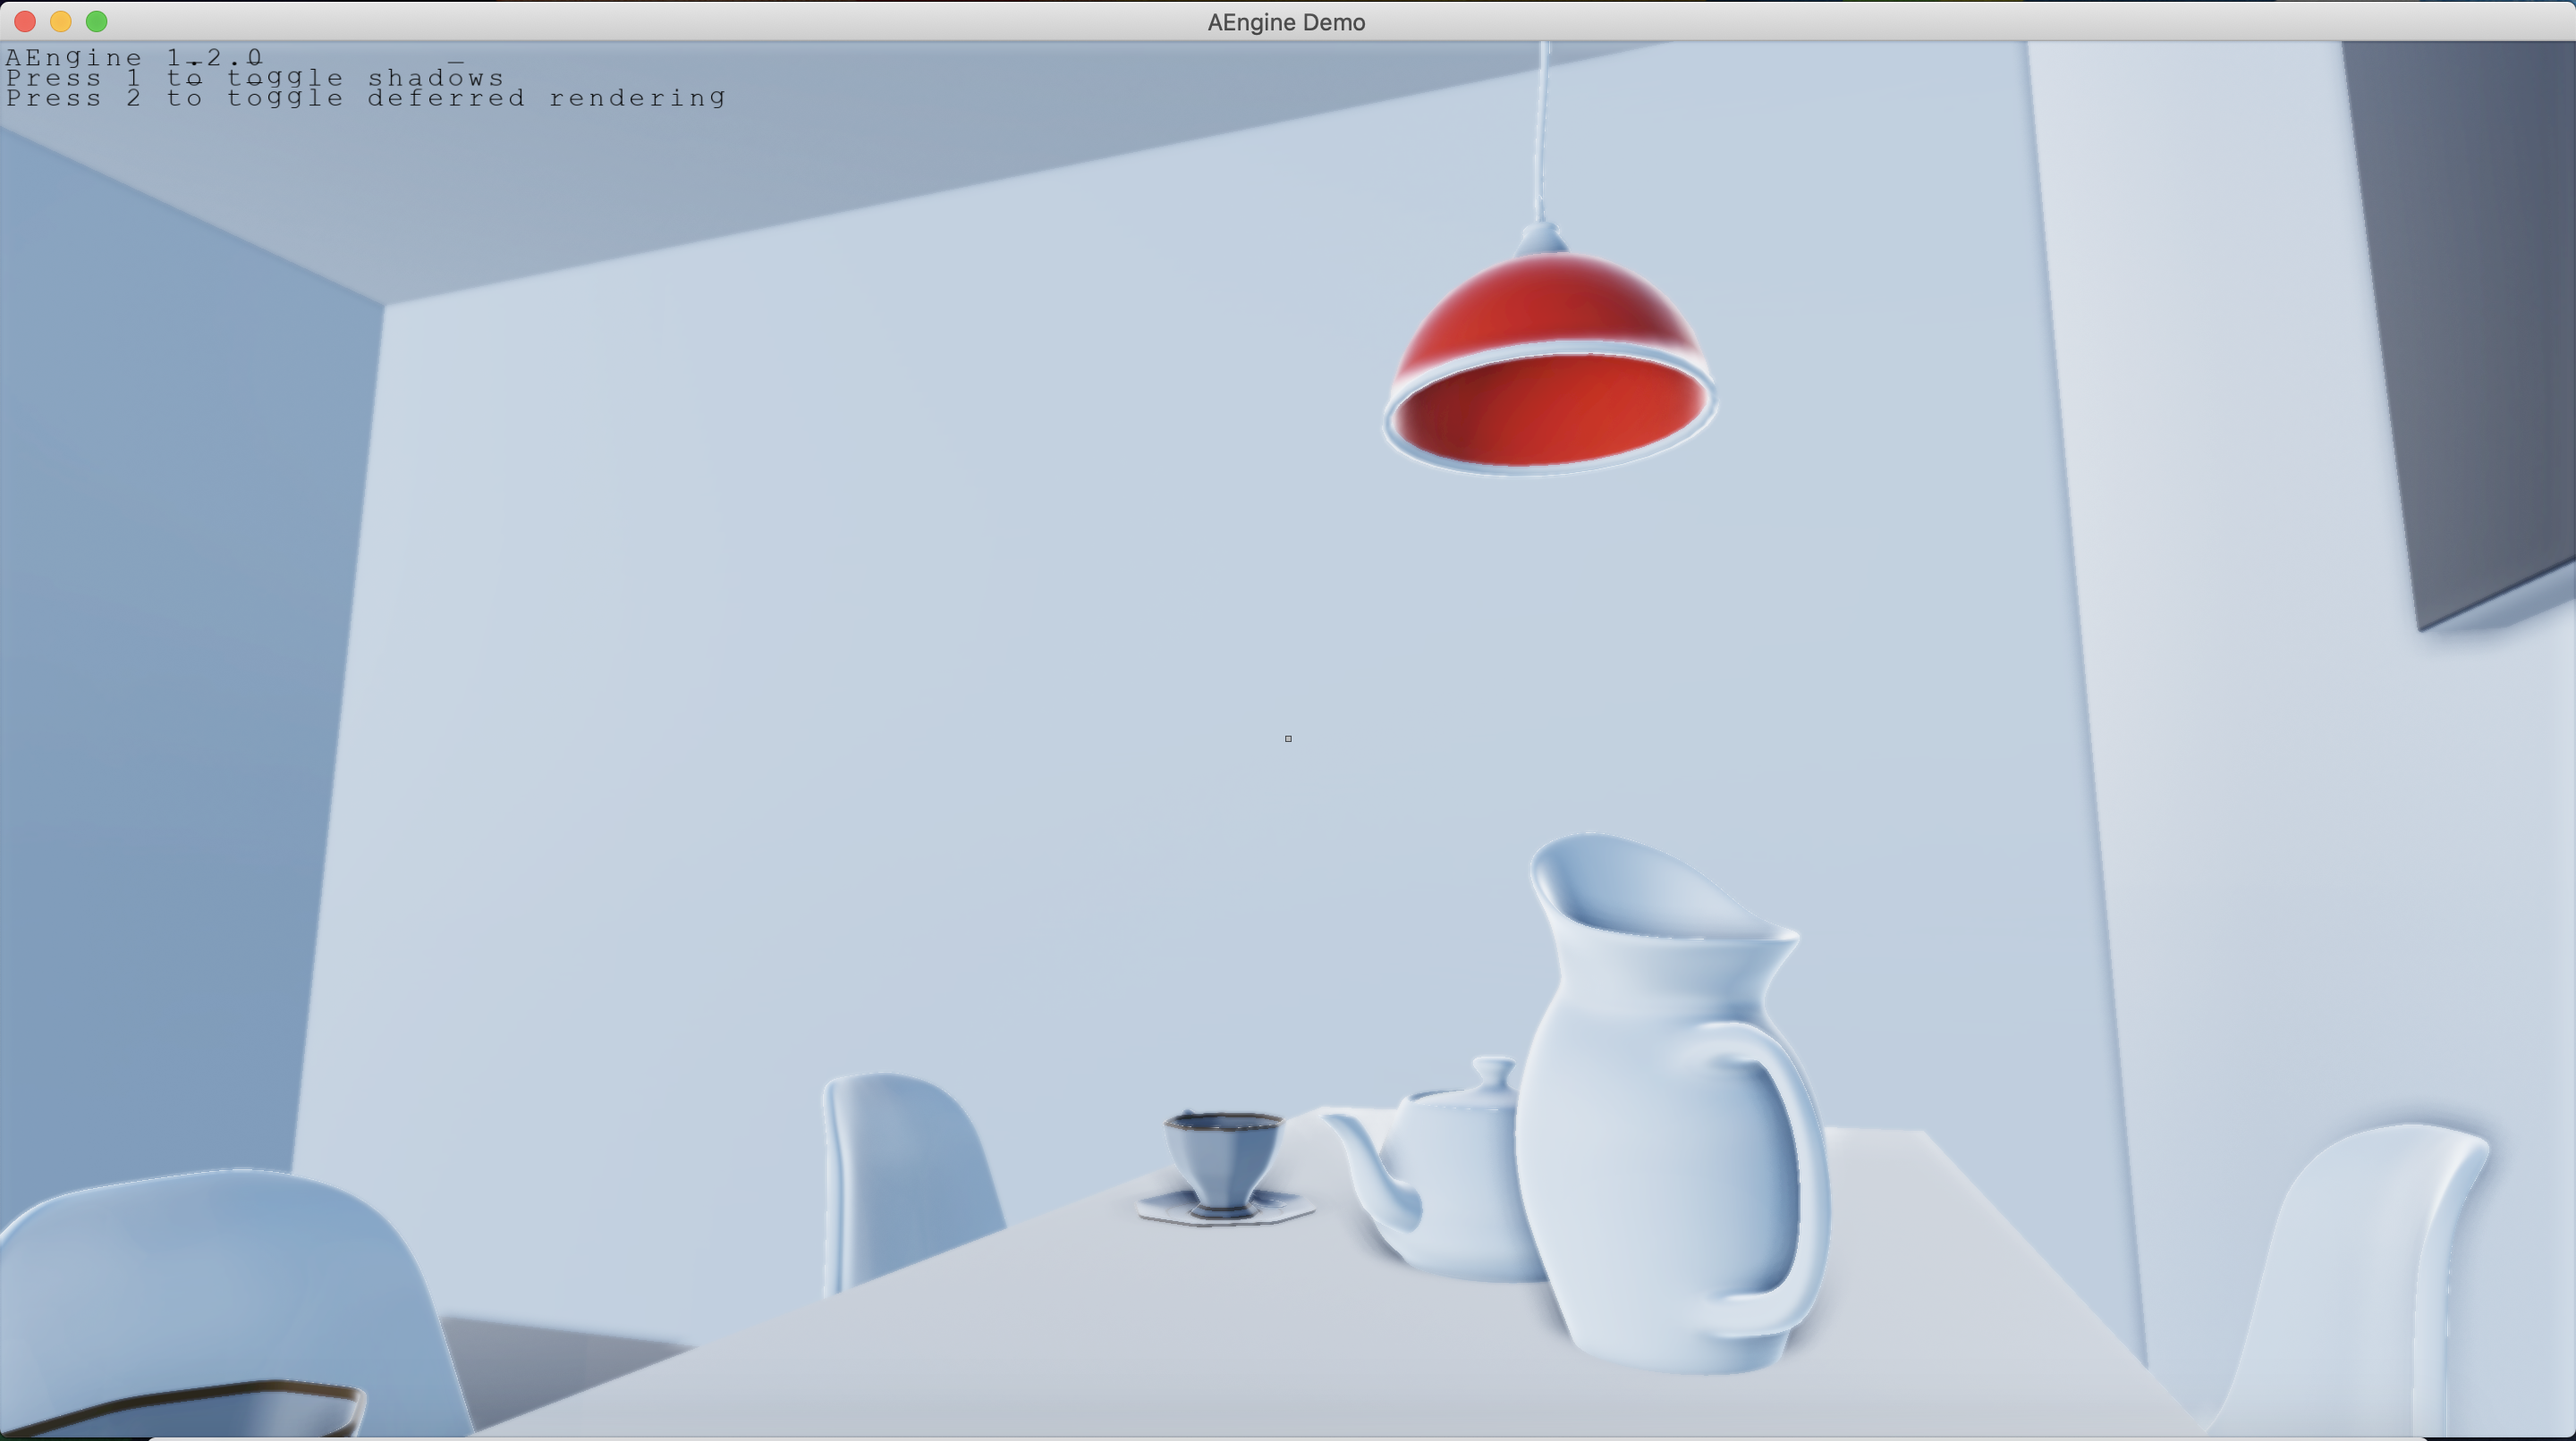
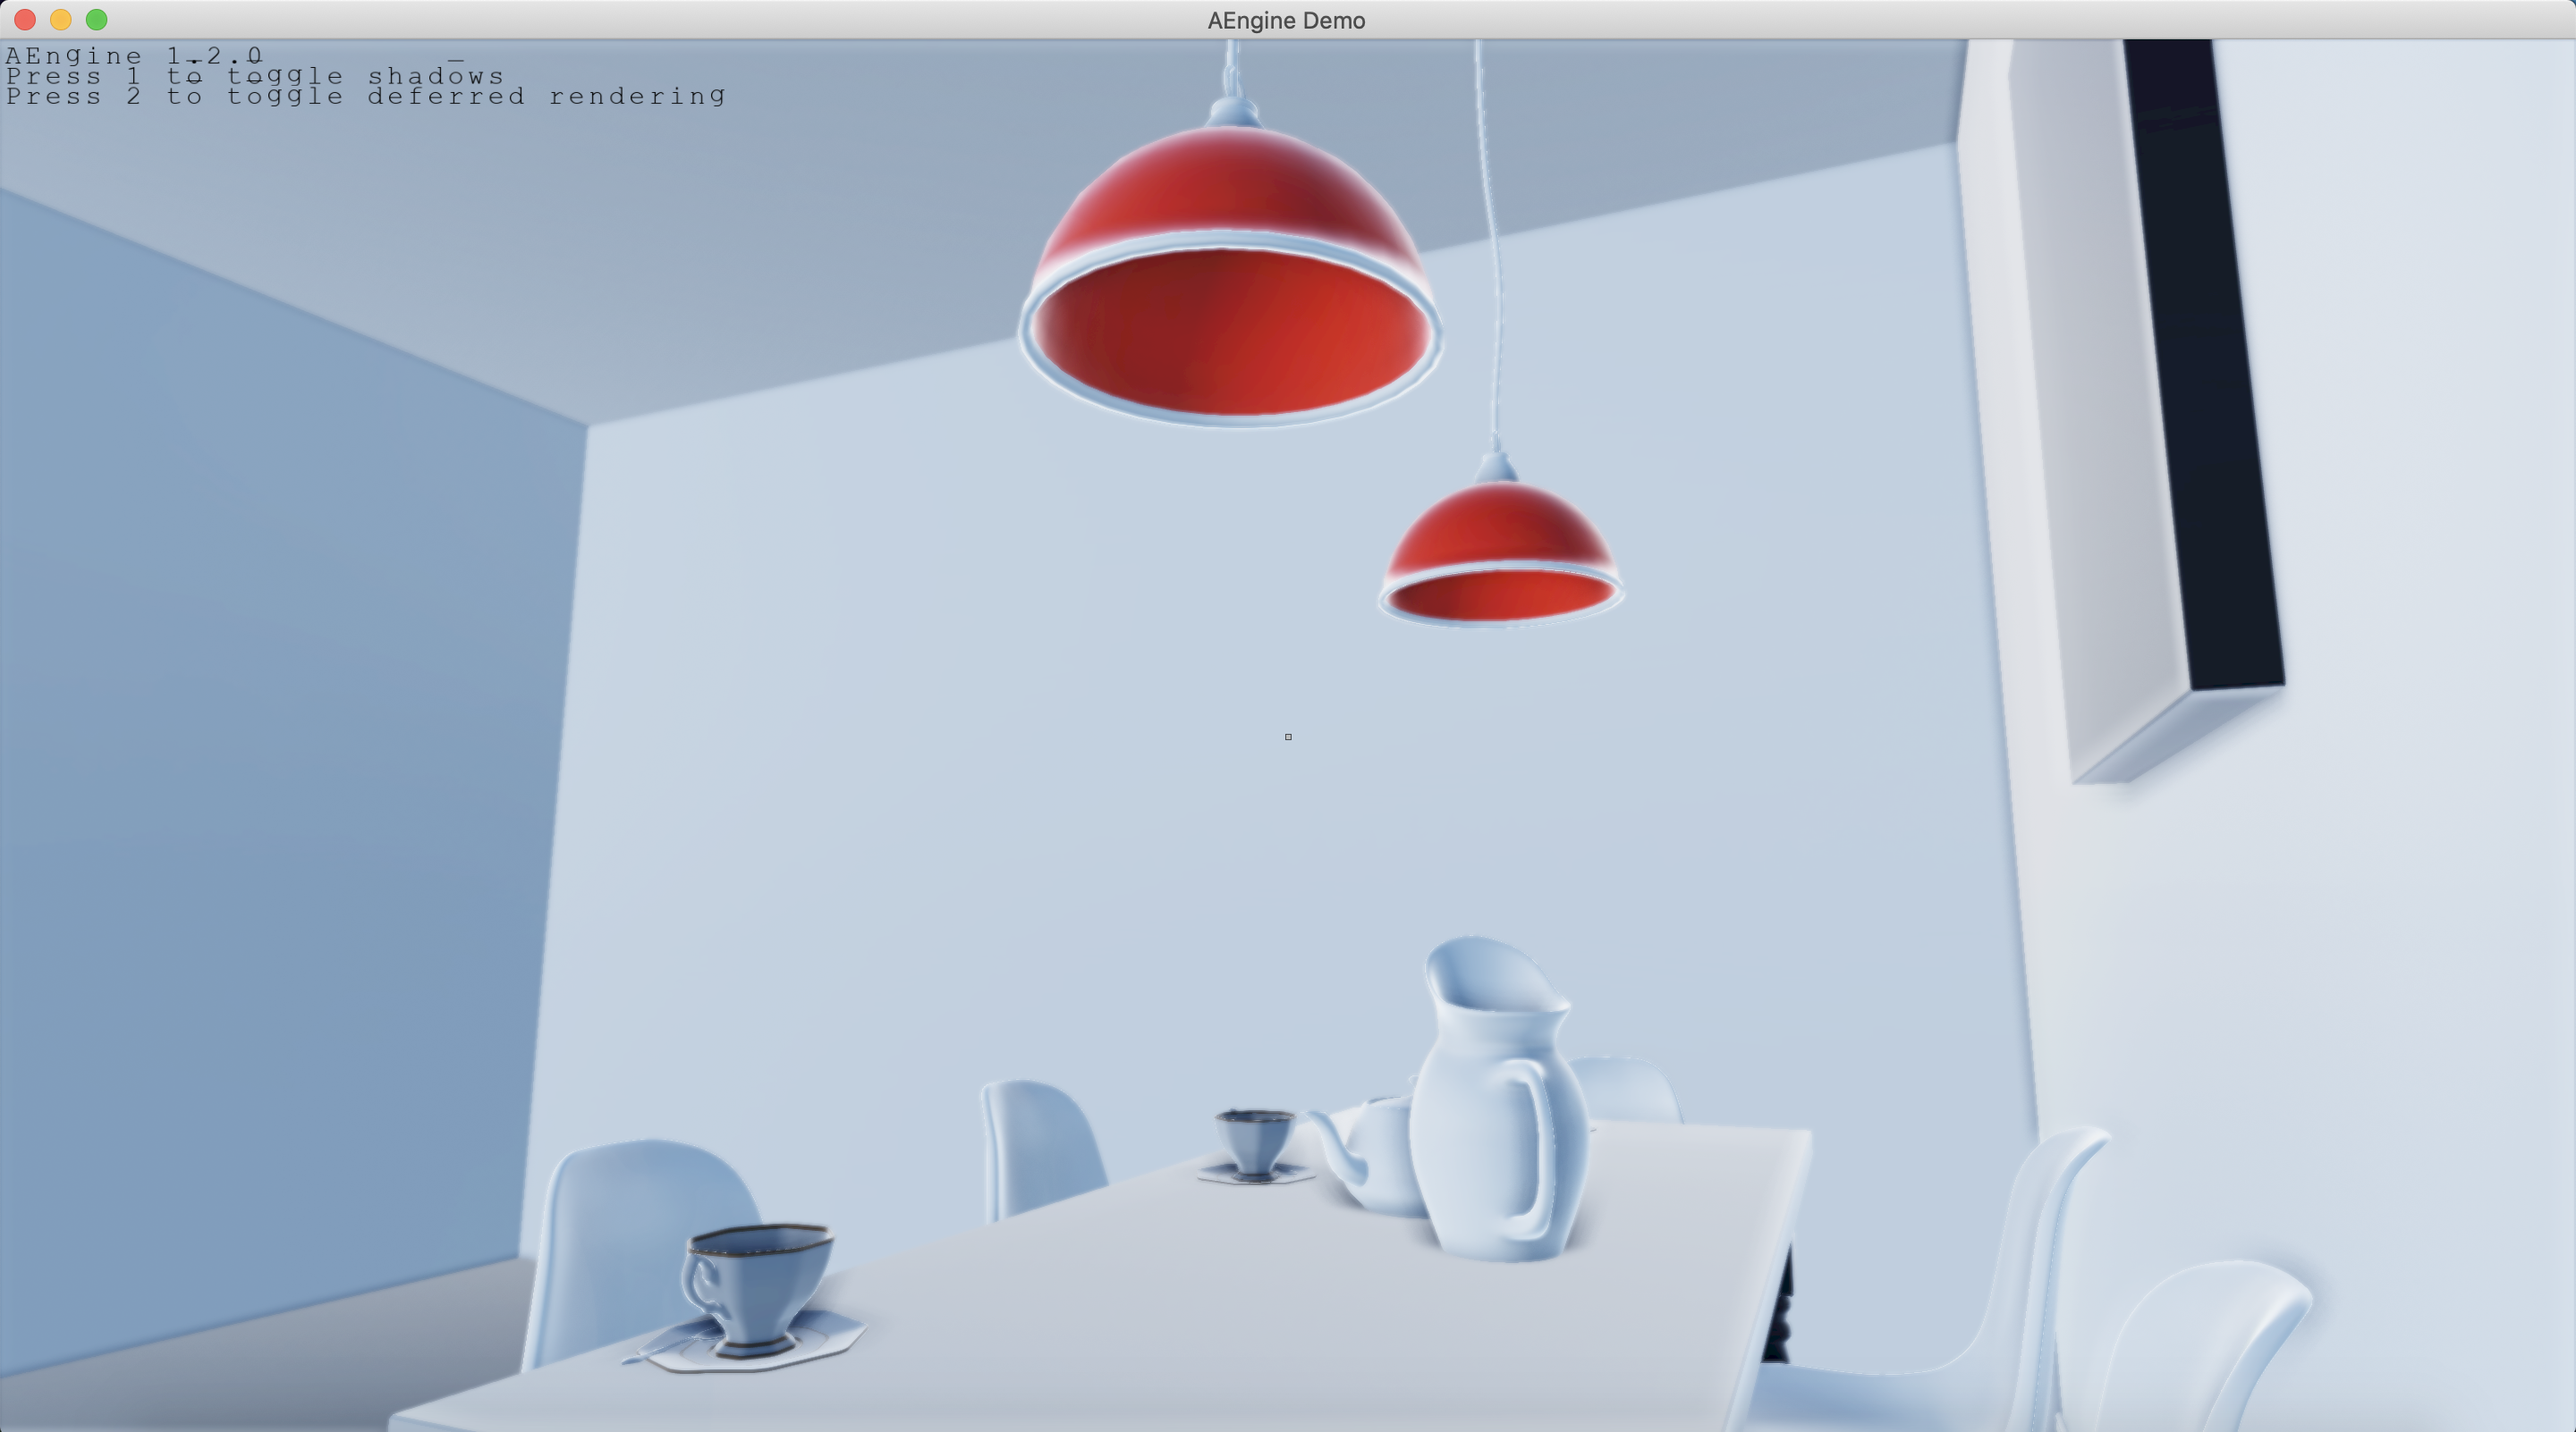
Add FXAA filter and update readme

diff --git a/ApexEngineV2/main.cpp b/ApexEngineV2/main.cpp
@@ -36,6 +36,7 @@
 #include "rendering/postprocess/filters/deferred_rendering_filter.h"
 #include "rendering/postprocess/filters/bloom_filter.h"
 #include "rendering/postprocess/filters/depth_of_field_filter.h"
+#include "rendering/postprocess/filters/fxaa_filter.h"
 
 /* Extra */
 #include "rendering/skydome/skydome.h"
@@ -248,7 +249,8 @@ public:
         m_renderer->GetPostProcessing()->AddFilter<SSAOFilter>("ssao", 20);
         m_renderer->GetPostProcessing()->AddFilter<BloomFilter>("bloom", 40);
         m_renderer->GetPostProcessing()->AddFilter<DepthOfFieldFilter>("depth of field", 50);
-        m_renderer->GetPostProcessing()->AddFilter<GammaCorrectionFilter>("gamma correction", 9999);
+        m_renderer->GetPostProcessing()->AddFilter<GammaCorrectionFilter>("gamma correction", 999);
+        m_renderer->GetPostProcessing()->AddFilter<FXAAFilter>("fxaa", 9999);
         m_renderer->SetDeferred(true);
 
         //env_cam = new PerspectiveCamera(45, 256, 256, 0.3f, 100.0f);
@@ -434,17 +436,17 @@ public:
         dragger->UpdateTransform();
 
 
-        /*auto durdle = AssetManager::GetInstance()->LoadFromFile<Entity>("res/models/durdle/durdle.obj");
-        durdle->SetName("durdle");
-        durdle->Move(Vector3(-7, -10, -6));
-        durdle->Scale(0.25);
-        for (size_t i = 0; i < durdle->NumChildren(); i++) {
-            durdle->GetChild(i)->GetMaterial().SetParameter("FlipUV", Vector2(0, 1));
+        auto superdan = AssetManager::GetInstance()->LoadFromFile<Entity>("res/models/superdan/superdan.obj");
+        superdan->SetName("superdan");
+        superdan->Move(Vector3(-7, 5, -6));
+        superdan->Scale(0.25);
+        for (size_t i = 0; i < superdan->NumChildren(); i++) {
+            superdan->GetChild(i)->GetMaterial().SetParameter("FlipUV", Vector2(0, 1));
         }
-        top->AddChild(durdle);
-        durdle->UpdateTransform();*/
+        top->AddChild(superdan);
+        superdan->UpdateTransform();
 
-        {
+        /*{
             auto sundaysbest = AssetManager::GetInstance()->LoadFromFile<Entity>("res/models/durdle/sundays_best.obj");
             sundaysbest->SetName("sundaysbest");
             sundaysbest->Move(Vector3(2, 4, 8));
@@ -473,7 +475,7 @@ public:
             particle_node->SetLocalScale(Vector3(1.5));
             particle_node->SetLocalTranslation(Vector3(-0.1, 1.9, -0.4));
             sundaysbest->AddChild(particle_node);
-        }
+        }*/
 
         // auto rb3 = std::make_shared<physics::RigidBody>(std::make_shared<physics::BoxPhysicsShape>(Vector3(0.25)), physics::PhysicsMaterial(0.01));
         // rb3->SetPosition(dragger->GetGlobalTransform().GetTranslation());
@@ -708,7 +710,7 @@ public:
             sponza->Scale(2.0f);
         }*/
 
-        {
+        /*{
             auto breakfast_room = AssetManager::GetInstance()->LoadFromFile<Entity>("res/models/breakfast_room/breakfast_room.obj");
            
 
@@ -719,7 +721,7 @@ public:
 
             //room->Rotate(Quaternion(Vector3::UnitX(), MathUtil::DegToRad(90.0f)));
             breakfast_room->Scale(5.0f);
-        }
+        }*/
 
         // { //
         //     auto obj = AssetManager::GetInstance()->LoadFromFile<Entity>("res/models/mitsuba.obj");
@@ -744,7 +746,7 @@ public:
 
         //top->AddControl(std::make_shared<SkydomeControl>(cam));
         top->AddControl(std::make_shared<SkyboxControl>(cam, cubemap));
-        // top->AddControl(std::make_shared<NoiseTerrainControl>(cam, 223));
+        top->AddControl(std::make_shared<NoiseTerrainControl>(cam, 223));
     }
 
     void Logic(double dt)

diff --git a/ApexEngineV2/rendering/shaders/post/fxaa.cpp b/ApexEngineV2/rendering/shaders/post/fxaa.cpp
@@ -1,0 +1,24 @@
+#include "fxaa.h"
+#include "../../../asset/asset_manager.h"
+#include "../../../asset/text_loader.h"
+#include "../../../util/shader_preprocessor.h"
+
+namespace apex {
+FXAAShader::FXAAShader(const ShaderProperties &properties)
+    : PostShader(properties)
+{
+    const std::string fs_path("res/shaders/filters/fxaa.frag");
+
+    AddSubShader(
+        Shader::SubShaderType::SUBSHADER_FRAGMENT,
+        AssetManager::GetInstance()->LoadFromFile<TextLoader::LoadedText>(fs_path)->GetText(),
+        properties,
+        fs_path
+    );
+}
+
+void FXAAShader::ApplyTransforms(const Transform &transform, Camera *camera)
+{
+    Shader::ApplyTransforms(transform, camera);
+}
+} // namespace apex

diff --git a/ApexEngineV2/rendering/postprocess/filters/fxaa_filter.h b/ApexEngineV2/rendering/postprocess/filters/fxaa_filter.h
@@ -1,0 +1,25 @@
+#ifndef FXAA_FILTER_H
+#define FXAA_FILTER_H
+
+#include <array>
+#include <memory>
+
+#include "../post_filter.h"
+#include "../../texture_2D.h"
+#include "../../../math/vector3.h"
+#include "../../../math/vector2.h"
+#include "../../../math/matrix4.h"
+
+namespace apex {
+
+class FXAAFilter : public PostFilter {
+public:
+    FXAAFilter();
+    virtual ~FXAAFilter() = default;
+
+    virtual void SetUniforms(Camera *cam) override;
+};
+
+} // namespace apex
+
+#endif

diff --git a/ApexEngineV2/rendering/postprocess/filters/fxaa_filter.cpp b/ApexEngineV2/rendering/postprocess/filters/fxaa_filter.cpp
@@ -1,0 +1,18 @@
+#include "./fxaa_filter.h"
+#include "../../../asset/asset_manager.h"
+#include "../../shader_manager.h"
+#include "../../shaders/post/fxaa.h"
+
+namespace apex {
+
+FXAAFilter::FXAAFilter()
+    : PostFilter(ShaderManager::GetInstance()->GetShader<FXAAShader>(ShaderProperties()))
+{
+}
+
+void FXAAFilter::SetUniforms(Camera *cam)
+{
+    m_shader->SetUniform("Resolution", Vector2(cam->GetWidth(), cam->GetHeight()));
+}
+
+} // namespace apex

diff --git a/ApexEngineV2/rendering/shaders/post/fxaa.h b/ApexEngineV2/rendering/shaders/post/fxaa.h
@@ -1,0 +1,18 @@
+#ifndef FXAA_H
+#define FXAA_H
+
+#include "../post_shader.h"
+
+namespace apex {
+
+class FXAAShader : public PostShader {
+public:
+    FXAAShader(const ShaderProperties &properties);
+    virtual ~FXAAShader() = default;
+
+    virtual void ApplyTransforms(const Transform &transform, Camera *camera);
+};
+
+} // namespace apex
+
+#endif

diff --git a/README.md b/README.md
@@ -1,3 +1,5 @@
 # Apex Engine
 
 ![Apex engine screenshot](/screenshot1.png)
+![Apex engine screenshot](/screenshot2.png)
+![Apex engine screenshot](/screenshot3.png)
